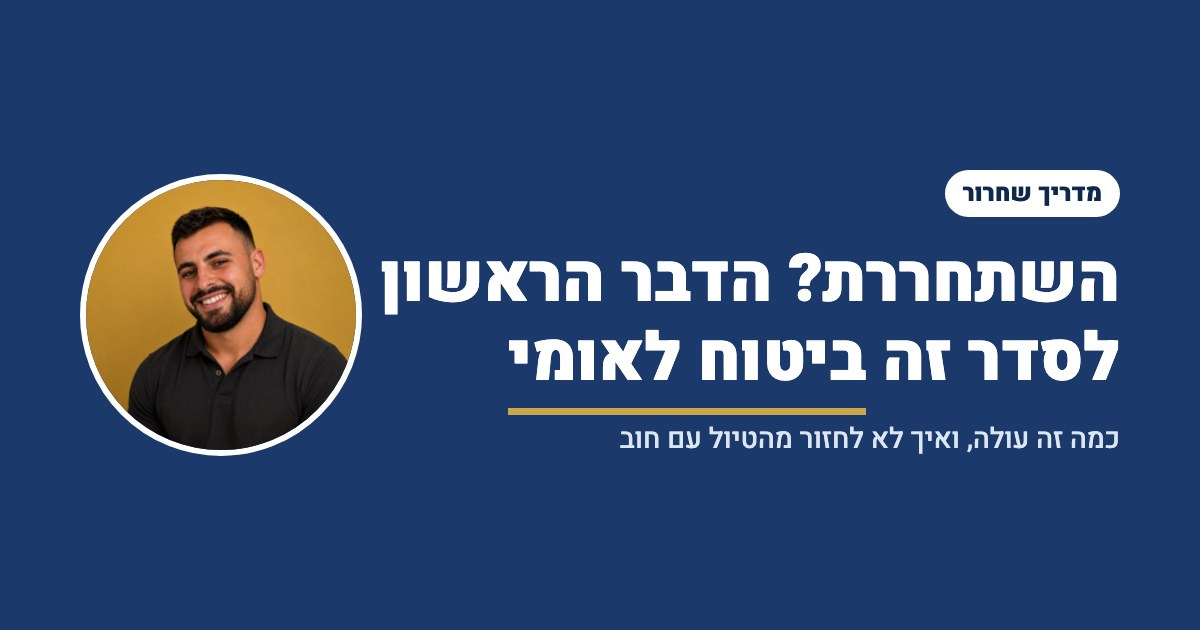
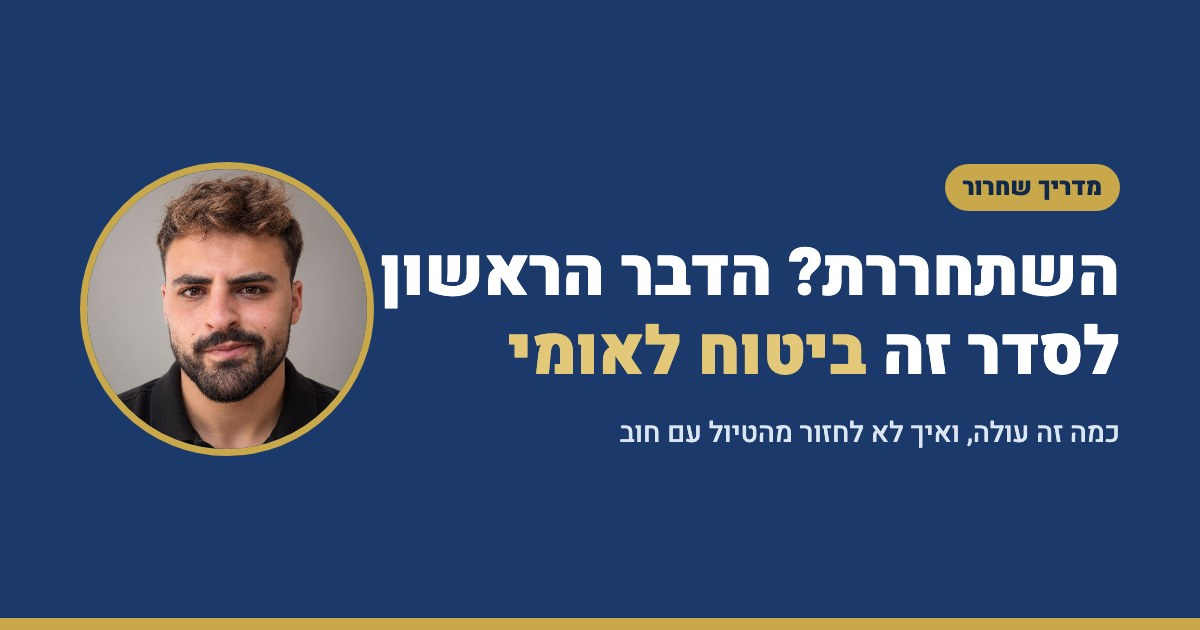
מדריך ביטוח לאומי: יותר זהב, סיום בלי כחול, תמונת פרופיל, תיקוני SEO ונגישות

diff --git a/content/guides/bituach-leumi/index.html b/content/guides/bituach-leumi/index.html
@@ -3,10 +3,10 @@
 <head>
 <meta charset="UTF-8">
 <meta name="viewport" content="width=device-width, initial-scale=1.0">
-<title>ביטוח לאומי אחרי השחרור: למה לשלם ואיך מסדרים את זה | שחר לוי</title>
-<meta name="description" content="ביום שאחרי השחרור התשלום לביטוח לאומי עובר אליך. כמה זה עולה, מה קורה כשלא משלמים, ואיך מסדרים הוראת קבע בכמה דקות.">
+<title>ביטוח לאומי אחרי השחרור: כמה משלמים ואיך מסדרים | שחר לוי</title>
+<meta name="description" content="ביום שאחרי השחרור התשלום לביטוח לאומי עובר אליך. כמה משלמים ב-2026, מה קורה לחוב ולקצבאות כשלא משלמים, ואיך מסדרים הוראת קבע לפני הטיול.">
 <link rel="canonical" href="https://shaharfinance.com/guides/bituach-leumi/">
-<meta property="og:title" content="ביטוח לאומי אחרי השחרור: למה לשלם ואיך מסדרים את זה | שחר לוי"><meta property="og:type" content="article"><meta property="og:locale" content="he_IL"><meta property="og:url" content="https://shaharfinance.com/guides/bituach-leumi/"><meta property="og:description" content="כמה זה עולה, מה קורה כשלא משלמים, ואיך מסדרים הוראת קבע בכמה דקות.">
+<meta property="og:title" content="ביטוח לאומי אחרי השחרור: כמה משלמים ואיך מסדרים | שחר לוי"><meta property="og:type" content="article"><meta property="og:locale" content="he_IL"><meta property="og:url" content="https://shaharfinance.com/guides/bituach-leumi/"><meta property="og:description" content="כמה זה עולה, מה קורה כשלא משלמים, ואיך מסדרים הוראת קבע בכמה דקות.">
 <link rel="icon" type="image/png" href="/logo.png">
 <link rel="preconnect" href="https://fonts.googleapis.com"><link rel="preconnect" href="https://fonts.gstatic.com" crossorigin><link href="https://fonts.googleapis.com/css2?family=Heebo:wght@400;500;700;800;900&display=swap" rel="stylesheet">
 <meta property="article:published_time" content="2026-11-12">
@@ -18,6 +18,8 @@
 <meta property="og:image:height" content="630">
 <meta property="og:image:alt" content="ביטוח לאומי אחרי השחרור">
 <meta name="twitter:card" content="summary_large_image">
+<meta name="twitter:title" content="ביטוח לאומי אחרי השחרור: כמה משלמים ואיך מסדרים">
+<meta name="twitter:description" content="כמה משלמים ב-2026, מה קורה לחוב ולקצבאות כשלא משלמים, ואיך מסדרים הוראת קבע לפני הטיול.">
 <meta name="twitter:image" content="https://shaharfinance.com/guides/og/bituach-leumi.jpg">
 <script type="application/ld+json">
 {
@@ -26,7 +28,8 @@
     {
       "@type": "Article",
       "@id": "https://shaharfinance.com/guides/bituach-leumi/#article",
-      "headline": "ביטוח לאומי אחרי השחרור: למה לשלם ואיך מסדרים את זה",
+      "headline": "ביטוח לאומי אחרי השחרור: כמה משלמים ואיך מסדרים",
+      "about": [{"@type": "Thing", "name": "המוסד לביטוח לאומי"}, {"@type": "Thing", "name": "חיילים משוחררים"}],
       "description": "ביום שאחרי השחרור התשלום לביטוח לאומי עובר אליך. כמה זה עולה, מה קורה כשלא משלמים, ואיך מסדרים הוראת קבע בכמה דקות.",
       "inLanguage": "he-IL",
       "url": "https://shaharfinance.com/guides/bituach-leumi/",
@@ -63,32 +66,35 @@
   :root{
     --navy:#1B3A6B; --navy-deep:#102849; --navy-soft:#EAF0F8; --navy-line:#C9D6EA;
     --gold:#C9A84C; --ink:#1E2430; --muted:#5B6475; --bg:#FFFFFF; --rule:#E4E8EF;
-    --warn-bg:#FFF8E8; --warn-line:#EBD9A8;
+    --warn-bg:#FFF8E8; --warn-line:#EBD9A8; --gold-soft:#FBF5E6; --gold-deep:#8A6D1E; --cream:#F7F5F0;
   }
   *{margin:0;padding:0;box-sizing:border-box}
-  html{overflow-x:hidden;width:100%;scroll-behavior:smooth}
+  html{overflow-x:hidden;width:100%}
+  @media (prefers-reduced-motion:no-preference){html{scroll-behavior:smooth}}
+  a:focus-visible,summary:focus-visible,input:focus-visible,.shot:focus-visible{outline:3px solid var(--gold);outline-offset:3px;border-radius:4px}
   body{overflow-x:hidden;width:100%;position:relative;font-family:'Heebo',sans-serif;background:var(--bg);color:var(--ink);line-height:1.75;font-size:18px;-webkit-font-smoothing:antialiased}
   a{color:var(--navy)}
   img{max-width:100%;height:auto;display:block}
   .wrap{max-width:720px;margin:0 auto;padding-left:20px;padding-right:20px}
 
   /* top */
-  .hero{background:var(--navy);color:#fff;position:relative;padding-top:84px;padding-bottom:56px}
-  .hero .logo{position:absolute;top:20px;right:20px;font-weight:800;font-size:16px;color:#fff;text-decoration:none;letter-spacing:.2px}
-  .hero .all{position:absolute;top:22px;left:20px;font-size:14px;color:#C9D6EA;text-decoration:none}
+  .hero{background:var(--navy);color:#fff;position:relative;padding-top:84px;padding-bottom:56px;border-bottom:6px solid var(--gold)}
+  .hero .logo{position:absolute;top:10px;right:12px;padding:10px 8px;font-weight:800;font-size:16px;color:#fff;text-decoration:none;letter-spacing:.2px}
+  .hero .all{position:absolute;top:12px;left:12px;font-size:14px;color:#C9D6EA;text-decoration:none;padding:10px 8px}
   .hero .all:hover{color:#fff}
-  .tag{display:inline-block;font-size:13px;font-weight:700;letter-spacing:.4px;color:var(--navy-deep);background:#fff;border-radius:999px;padding:4px 12px;margin-bottom:18px}
+  .tag{display:inline-block;font-size:13px;font-weight:700;letter-spacing:.4px;color:var(--navy-deep);background:var(--gold);border-radius:999px;padding:4px 12px;margin-bottom:18px}
   .hero h1{font-size:40px;line-height:1.2;font-weight:900;margin-bottom:16px}
   .hero h1 em{font-style:normal;border-bottom:4px solid var(--gold);padding-bottom:2px}
   .hero .lead{font-size:19px;color:#DCE5F2;max-width:600px}
   .meta{margin-top:22px;font-size:14px;color:#AFC1DC}
 
   /* tldr */
-  .tldr{background:var(--navy-soft);border-right:5px solid var(--navy);border-radius:10px;padding:20px 22px;margin-top:-28px;position:relative;box-shadow:0 8px 24px rgba(16,40,73,.08)}
-  .tldr b.k{display:block;color:var(--navy);font-size:14px;letter-spacing:.4px;margin-bottom:6px}
+  .tldr{background:#fff;border:1px solid var(--rule);border-right:5px solid var(--gold);border-radius:10px;padding:20px 22px;margin-top:-28px;position:relative;box-shadow:0 8px 24px rgba(16,40,73,.08)}
+  .tldr b.k{display:block;color:var(--gold-deep);font-size:14px;letter-spacing:.4px;margin-bottom:6px}
 
   section{padding-top:48px;padding-bottom:8px}
-  h2{font-size:28px;line-height:1.3;font-weight:800;color:var(--navy-deep);margin-bottom:16px}
+  h2{font-size:28px;line-height:1.3;font-weight:800;color:var(--navy-deep);margin-bottom:18px}
+  main h2:after{content:"";display:block;width:44px;height:4px;background:var(--gold);border-radius:2px;margin-top:10px}
   h3{font-size:20px;font-weight:700;color:var(--navy-deep);margin-bottom:8px}
   p{margin-bottom:14px}
   .num-h{display:flex;align-items:center;gap:12px;margin-bottom:6px}
@@ -101,15 +107,16 @@
   .voice p{margin-bottom:8px}
   .voice p:last-child{margin-bottom:0}
   .voice .who{font-weight:800;color:var(--navy)}
+  .voice p:nth-child(2) .who{color:var(--gold-deep)}
 
   /* table */
   .who-table{width:100%;border-collapse:collapse;margin:16px 0 18px;font-size:17px}
   .who-table th,.who-table td{text-align:right;padding:12px 12px;border-bottom:1px solid var(--rule);vertical-align:top}
-  .who-table th{background:var(--navy);color:#fff;font-weight:700;font-size:15px}
+  .who-table th{background:var(--navy);color:#fff;font-weight:700;font-size:15px;border-bottom:3px solid var(--gold)}
   .who-table th:first-child{border-radius:0 8px 0 0}
   .who-table th:last-child{border-radius:8px 0 0 0}
   .who-table td.amt{font-weight:800;color:var(--navy-deep);white-space:nowrap}
-  .who-table tr.hl td{background:var(--navy-soft)}
+  .who-table tr.hl td{background:var(--gold-soft)}
 
   /* big number */
   .big{display:flex;gap:18px;align-items:center;background:var(--navy-deep);color:#fff;border-radius:14px;padding:22px 22px;margin:18px 0}
@@ -121,12 +128,12 @@
   .timeline{list-style:none;margin:18px 0;border-right:3px solid var(--navy-line);padding-right:18px}
   .timeline li{position:relative;margin-bottom:16px}
   .timeline li:before{content:"";position:absolute;right:-26px;top:9px;width:13px;height:13px;border-radius:50%;background:#fff;border:3px solid var(--navy)}
-  .timeline li.bad:before{background:var(--navy)}
+  .timeline li.bad:before{background:var(--gold);border-color:var(--gold)}
   .timeline b{color:var(--navy-deep)}
   .timeline .sum{display:inline-block;font-weight:800;color:var(--navy);background:var(--navy-soft);border-radius:6px;padding:0 8px;margin-right:4px}
 
   .cuts{display:grid;grid-template-columns:repeat(3,1fr);gap:10px;margin:16px 0}
-  .cuts>div{border:1px solid var(--navy-line);border-radius:12px;padding:14px 12px;text-align:center;background:#fff}
+  .cuts>div{border:1px solid var(--navy-line);border-top:4px solid var(--gold);border-radius:12px;padding:14px 12px;text-align:center;background:#fff}
   .cuts .p{font-size:26px;font-weight:900;color:var(--navy)}
   .cuts .l{font-size:14px;color:var(--muted);line-height:1.4}
 
@@ -137,25 +144,31 @@
 
   /* steps */
   .step{display:grid;grid-template-columns:44px 1fr;gap:14px;margin:26px 0}
-  .step .s{width:44px;height:44px;border-radius:12px;background:var(--navy);color:#fff;font-weight:900;font-size:20px;display:flex;align-items:center;justify-content:center}
+  .step .s{width:44px;height:44px;border-radius:12px;background:var(--navy);color:var(--gold);font-weight:900;font-size:20px;display:flex;align-items:center;justify-content:center}
   .shot{border:1px solid var(--rule);border-radius:10px;margin-top:10px;cursor:zoom-in;box-shadow:0 4px 14px rgba(16,40,73,.06)}
   .shot.menu{max-width:260px}
   details.proof{margin-top:8px}
-  details.proof summary{cursor:pointer;color:var(--navy);font-weight:700;font-size:16px}
+  details.proof summary{cursor:pointer;color:var(--navy);font-weight:700;font-size:16px;padding:10px 0}
 
   /* checklist */
   .check{list-style:none;margin:14px 0}
   .check li{display:flex;gap:12px;align-items:flex-start;padding:12px 0;border-bottom:1px solid var(--rule)}
-  .check input{width:22px;height:22px;margin-top:4px;accent-color:var(--navy);flex:0 0 auto}
+  .check input{width:22px;height:22px;margin-top:4px;accent-color:var(--gold);flex:0 0 auto;cursor:pointer}
+  .check label{cursor:pointer}
+  .sources{font-size:15px;color:var(--muted);margin-top:8px}
+  .sources a{color:var(--navy)}
+  .related{display:block;border:1px solid var(--rule);border-right:5px solid var(--navy);border-radius:12px;padding:16px 18px;margin:22px 0;text-decoration:none;color:var(--ink)}
+  .related b{color:var(--navy-deep)}
+  .related:hover{border-color:var(--gold)}
 
   /* end */
-  .end{background:var(--navy);color:#fff;margin-top:56px;padding-top:52px;padding-bottom:52px;text-align:center}
-  .end img{width:96px;height:96px;border-radius:50%;object-fit:cover;margin:0 auto 16px;border:3px solid #fff}
-  .end h2{color:#fff}
-  .end p{color:#DCE5F2}
-  .btn{display:inline-block;background:#fff;color:var(--navy-deep);font-weight:800;text-decoration:none;border-radius:10px;padding:14px 28px;margin-top:8px;border-bottom:3px solid var(--gold)}
-  .btn:hover{background:var(--navy-soft)}
-  .disclaimer{font-size:13px;color:#AFC1DC !important;margin-top:28px;line-height:1.6}
+  .end{background:var(--cream);color:var(--ink);margin-top:56px;padding-top:52px;padding-bottom:52px;text-align:center;border-top:6px solid var(--gold)}
+  .end img{width:120px;height:120px;border-radius:50%;object-fit:cover;margin:0 auto 16px;border:4px solid var(--gold)}
+  .end h2{color:var(--ink)}
+  .end p{color:var(--muted)}
+  .btn{display:inline-block;background:var(--gold);color:#2D2D2D;font-weight:800;text-decoration:none;border-radius:10px;padding:15px 30px;margin-top:8px;transition:background .2s}
+  .btn:hover{background:#B8973F}
+  .disclaimer{font-size:13px;color:var(--muted) !important;margin-top:28px;line-height:1.6}
 
   @media (max-width:560px){
     body{font-size:17px}
@@ -266,14 +279,13 @@
   <h2>טס לטיול הגדול? זה בשבילך</h2>
   <p>הטעות הכי נפוצה: "אני בחו"ל, אז אני לא צריך לשלם". לא נכון. מי שטס לטיול נשאר תושב ישראל, שומר על הזכויות שלו, <b>וממשיך לשלם</b>.</p>
   <p>ביטוח לאומי בעצמו ממליץ לסדר הוראת קבע לפני שיוצאים מהארץ. ככה זה יורד לבד, ואתה לא צריך לזכור לשלם מהוסטל בפרו.</p>
-  <details class="proof"><summary>לראות את זה באתר ביטוח לאומי</summary><img class="shot" src="/guides/discharge/screenshots/05-btl-abroad.png" alt="אתר ביטוח לאומי על תושב ששוהה בחו&quot;ל" loading="lazy"></details>
+  <details class="proof"><summary>לראות את זה באתר ביטוח לאומי</summary><img class="shot" src="/guides/discharge/screenshots/05-btl-abroad.png" alt="אתר ביטוח לאומי על תושב ששוהה בחו&quot;ל" width="1100" height="170" loading="lazy"></details>
 </section>
 
 <hr class="sep">
 
 <section id="how">
-  <div class="num-h"><small>החלק הפרקטי</small></div>
-  <h2>איך מסדרים את זה בפועל</h2>
+    <h2>איך מסדרים את זה בפועל</h2>
   <p>זה באמת פשוט. 4 צעדים, כמה דקות, ואתה מסודר.</p>
 
   <div class="step"><div class="s">1</div><div>
@@ -300,6 +312,7 @@
   </div></div>
 
   <p>לא מסתדר עם האתר? אפשר גם בטלפון, במוקד <b>6050*</b>, או בסניף.</p>
+  <a class="related" href="/guides/discharge/"><b>משתחרר מקבע?</b> יש עוד שני דברים לסדר: קרן הפנסיה בהראל ודמי אבטלה. הכל במדריך <b>3 דברים שחייבים לעשות כשמשתחררים מקבע</b> ←</a>
 </section>
 
 <section>
@@ -312,13 +325,14 @@
     <li><input type="checkbox" id="b5"><label for="b5">שמתי תזכורת לבדוק בעוד חודש שהחיוב ירד</label></li>
   </ul>
   <p>לבצע את הפעולה זה לבצע את הפעולה. כמה דקות עכשיו, ואתה טס בראש שקט.</p>
+  <p class="sources">המקורות: <a href="https://www.btl.gov.il/Insurance/Rates/Pages/default.aspx" rel="noopener" target="_blank">שיעורי דמי ביטוח, ביטוח לאומי</a> · <a href="https://www.kolzchut.org.il/he/פטור_זמני_מתשלום_דמי_ביטוח_לאומי_וביטוח_בריאות_לחיילים_משוחררים_ומסיימי_שירות_לאומי-אזרחי" rel="noopener" target="_blank">פטור לחיילים משוחררים, כל זכות</a> · <a href="https://www.kolzchut.org.il/he/דמי_ביטוח_לאומי_לסטודנטים" rel="noopener" target="_blank">דמי ביטוח לסטודנטים, כל זכות</a> · <a href="https://www.kolzchut.org.il/he/תשלום_חוב_לביטוח_לאומי" rel="noopener" target="_blank">תשלום חוב לביטוח לאומי, כל זכות</a></p>
 </section>
 
 </main>
 
 <section class="end">
   <div class="wrap">
-    <img src="/shahar_headshot.png" alt="שחר לוי" width="96" height="96" loading="lazy" onerror="this.remove()">
+    <picture><source srcset="/guides/bituach-leumi/shahar-avatar.webp" type="image/webp"><img src="/guides/bituach-leumi/shahar-avatar.jpg" alt="שחר לוי" width="120" height="120" loading="lazy"></picture>
     <h2>סידרת את ביטוח לאומי? עכשיו תורו של הכסף.</h2>
     <p>בהדרכה החינמית שלי אני מראה מה אני עושה עם הכסף שלי, ואיך מתחילים להשקיע בצורה פשוטה.</p>
     <a class="btn" href="/guide/">להדרכה החינמית</a>
